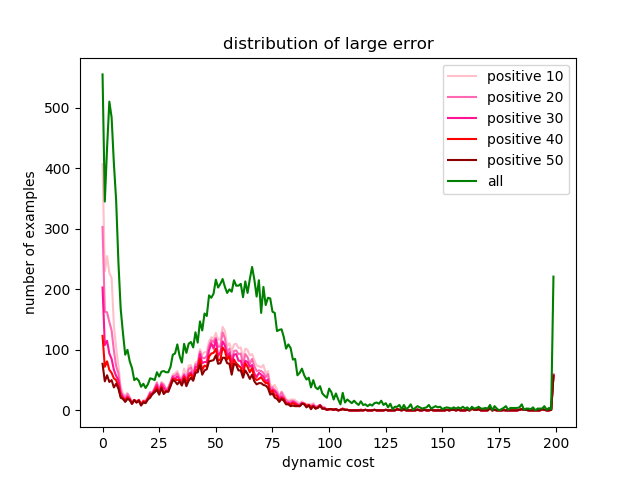
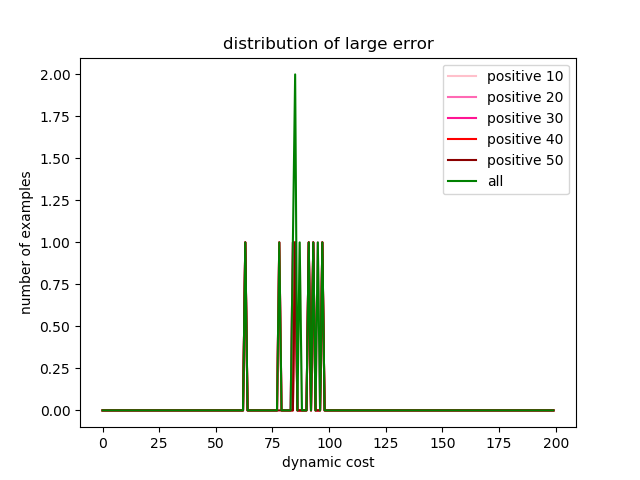
n

diff --git a/scripts/neural_network/p1p2/analyze_error_3.py b/scripts/neural_network/p1p2/analyze_error_3.py
@@ -2,6 +2,8 @@ import pickle, torch, os, IPython
 import torch.nn as nn
 import numpy as np
 import pprint
+import matplotlib
+matplotlib.use('agg')
 import matplotlib.pyplot as plt
 
 from torch.utils import data
@@ -10,7 +12,7 @@ from model_v3 import Model
 from special_dataset import Dataset
 from train import loss_across_epoch
 
-model_version = 'model_v3_00001_Adam_Weighted_Loss'
+model_version = 'model_v3_00005'
 
 def restore_checkpoint(model, checkpoint_dir):
     files = [file for file in os.listdir(checkpoint_dir)
@@ -30,7 +32,7 @@ def restore_checkpoint(model, checkpoint_dir):
     checkpoint = torch.load(filename)
 
     try:
-        model.load_state_dict(checkpoint['model_state_dict'])
+        model.load_state_dict(checkpoint['state_dict'])
         print('Successfully load the model from epoch {}'.format(requested_epoch))
     except:
         print('Fail to load the model from epoch {}'.format(requested_epoch))
@@ -46,7 +48,7 @@ def main():
     with open('/mnt/big_narstie_data/chenxi/data/ground_truth_p1p2/partition', 'r') as file:
         partition = pickle.load(file)
     print('number of test examples: {}'.format(len(partition['test'])))
-    test_dataset = Dataset(p2_ddyn, partition['test'])
+    test_dataset = Dataset(p2_ddyn, partition['test'][:10])
     test_generator = data.DataLoader(test_dataset, batch_size=512, shuffle=True, num_workers=4)
 
     all_examples = []
@@ -108,7 +110,7 @@ def main():
     plt.xlabel('dynamic cost')
     plt.ylabel('number of examples')
     plt.legend()
-    plt.savefig('positive_weighted_loss.png')
+    plt.savefig('positive.png')
     
 
 
